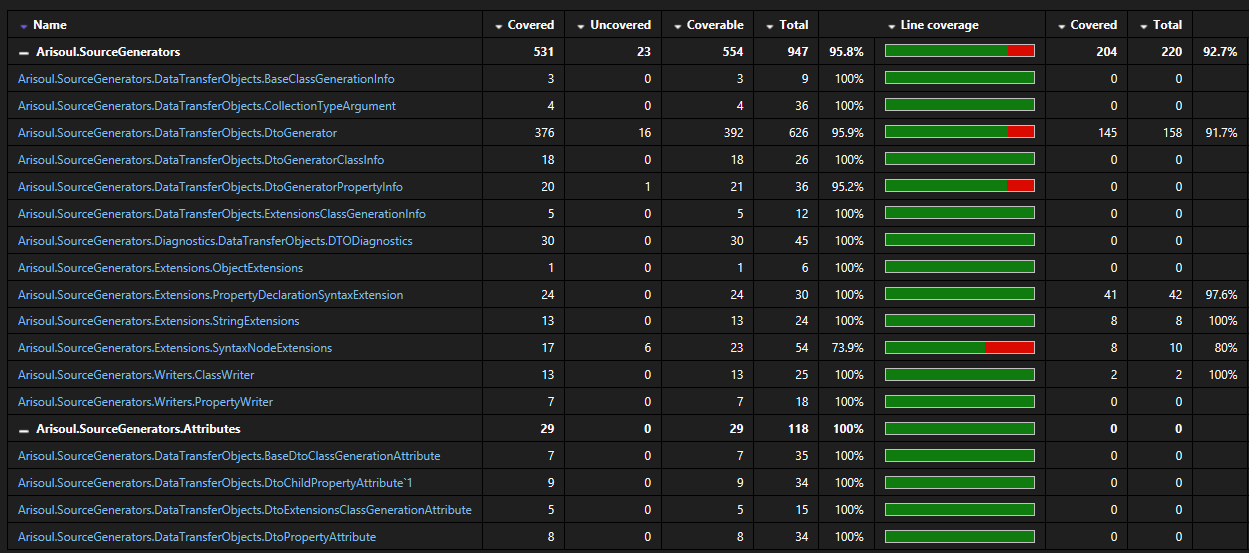
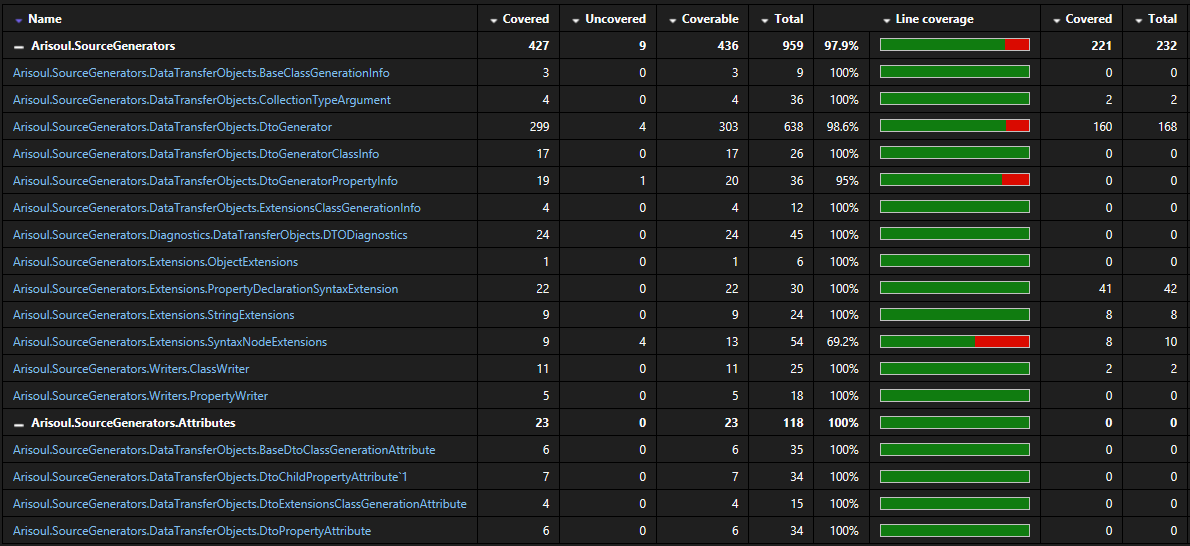
#v1.0.3 release (hotfix)

diff --git a/src/Arisoul.SourceGenerators/Arisoul.SourceGenerators/DataTransferObjects/DtoGenerator.cs b/src/Arisoul.SourceGenerators/Arisoul.SourceGenerators/DataTransferObjects/DtoGenerator.cs
@@ -5,8 +5,6 @@ using System.Collections.Immutable;
 
 namespace Arisoul.SourceGenerators.DataTransferObjects;
 
-// TODO: continue updating documentation. Left in release notes for 1.0.2
-
 /// <summary>
 /// Generates Data Transfer Objects (DTOs) from classes that have properties decorated with the <see cref="DtoPropertyAttribute"/>.
 /// </summary>

diff --git a/README.md b/README.md
@@ -105,7 +105,7 @@ You can check some simple examples [here](#simple-examples). Also, check the [re
 ## Tests Coverage
 - Arisoul SourceGenerator is unit tested with <a href="https://xunit.net/">**xUnit**</a> and <a href="https://github.com/VerifyTests/Verify">**Verify**</a>
 - To report the Visual Studio extension <a href="https://github.com/FortuneN/FineCodeCoverage">**Fine Code Coverage**</a> is used
-- 39 tests at the moment with a coverage more than ***95%*** as you can see below
+- 40 tests at the moment with a coverage more than ***97%*** as you can see below
 
 <img src="img/test_coverage.png" alt="Tests Coverage"/>
 
@@ -422,6 +422,7 @@ _Read the [release notes](#release-notes) form more information. If you need mor
 <p align="right">(<a href="#readme-top">back to top</a>)</p>
 
 # Release Notes
+- [v1.0.3 (09/04/2023)](https://github.com/ARiSoul/Arisoul.SourceGenerators/blob/master/CHANGELOG.md#v103)
 - [v1.0.2 (08/04/2023)](https://github.com/ARiSoul/Arisoul.SourceGenerators/blob/master/CHANGELOG.md#v102)
 - [v1.0.1 (03/04/2023)](https://github.com/ARiSoul/Arisoul.SourceGenerators/blob/master/CHANGELOG.md#v101)
 - [v1.0.0 (29/03/2023)](https://github.com/ARiSoul/Arisoul.SourceGenerators/blob/master/CHANGELOG.md#v100)

diff --git a/CHANGELOG.md b/CHANGELOG.md
@@ -5,10 +5,31 @@
 Here you can find the release notes of each version of the project from more recent to older ones. 
 
 ## Table of versions
+- [v1.0.3 (09/04/2023)](#v1.0.3)
 - [v1.0.2 (08/04/2023)](#v1.0.2)
 - [v1.0.1 (03/04/2023)](#v1.0.1)
 - [v1.0.0 (29/03/2023)](#v1.0.0)
 
+# v1.0.3 <a id="v1.0.3"></a>
+
+**Release date** - 09/04/2023
+
+**Hotfix**
+
+## Bugs
+- #13 DtoChildProperty with Collections is not working as expected
+    - Fixed
+
+## Test coverage
+- All changes were covered by unit tests
+- Number of tests: **40 tests**
+- Coverage: **97.9%**
+
+<br/>
+
+[Release link](https://github.com/ARiSoul/Arisoul.SourceGenerators/releases/tag/v1.0.3)
+
+<p align="right">(<a href="#changelog-top">back to top</a>)</p>
 
 # v1.0.2 <a id="v1.0.2"></a>
 
